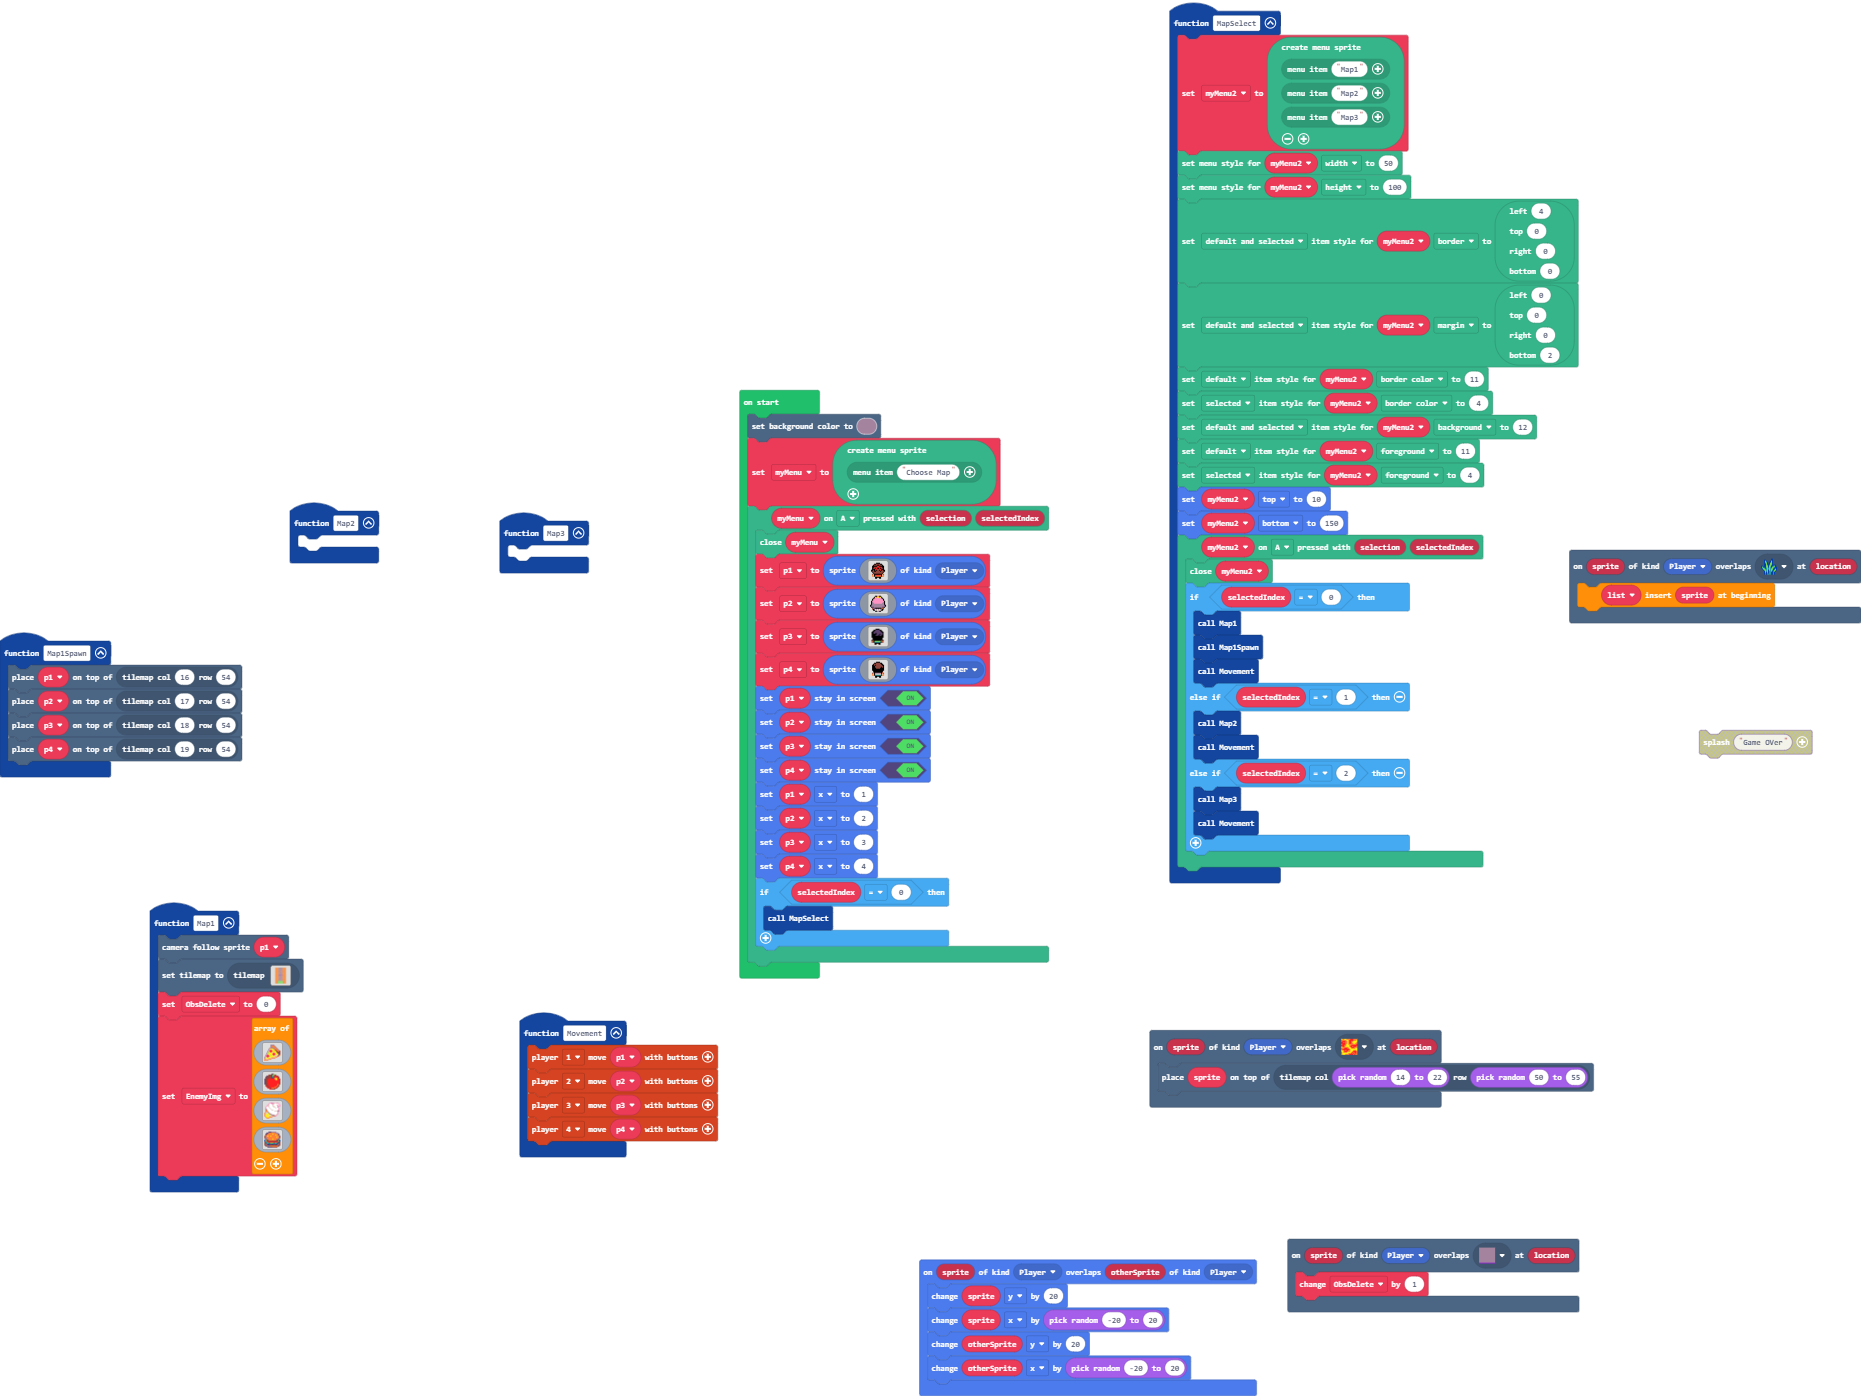
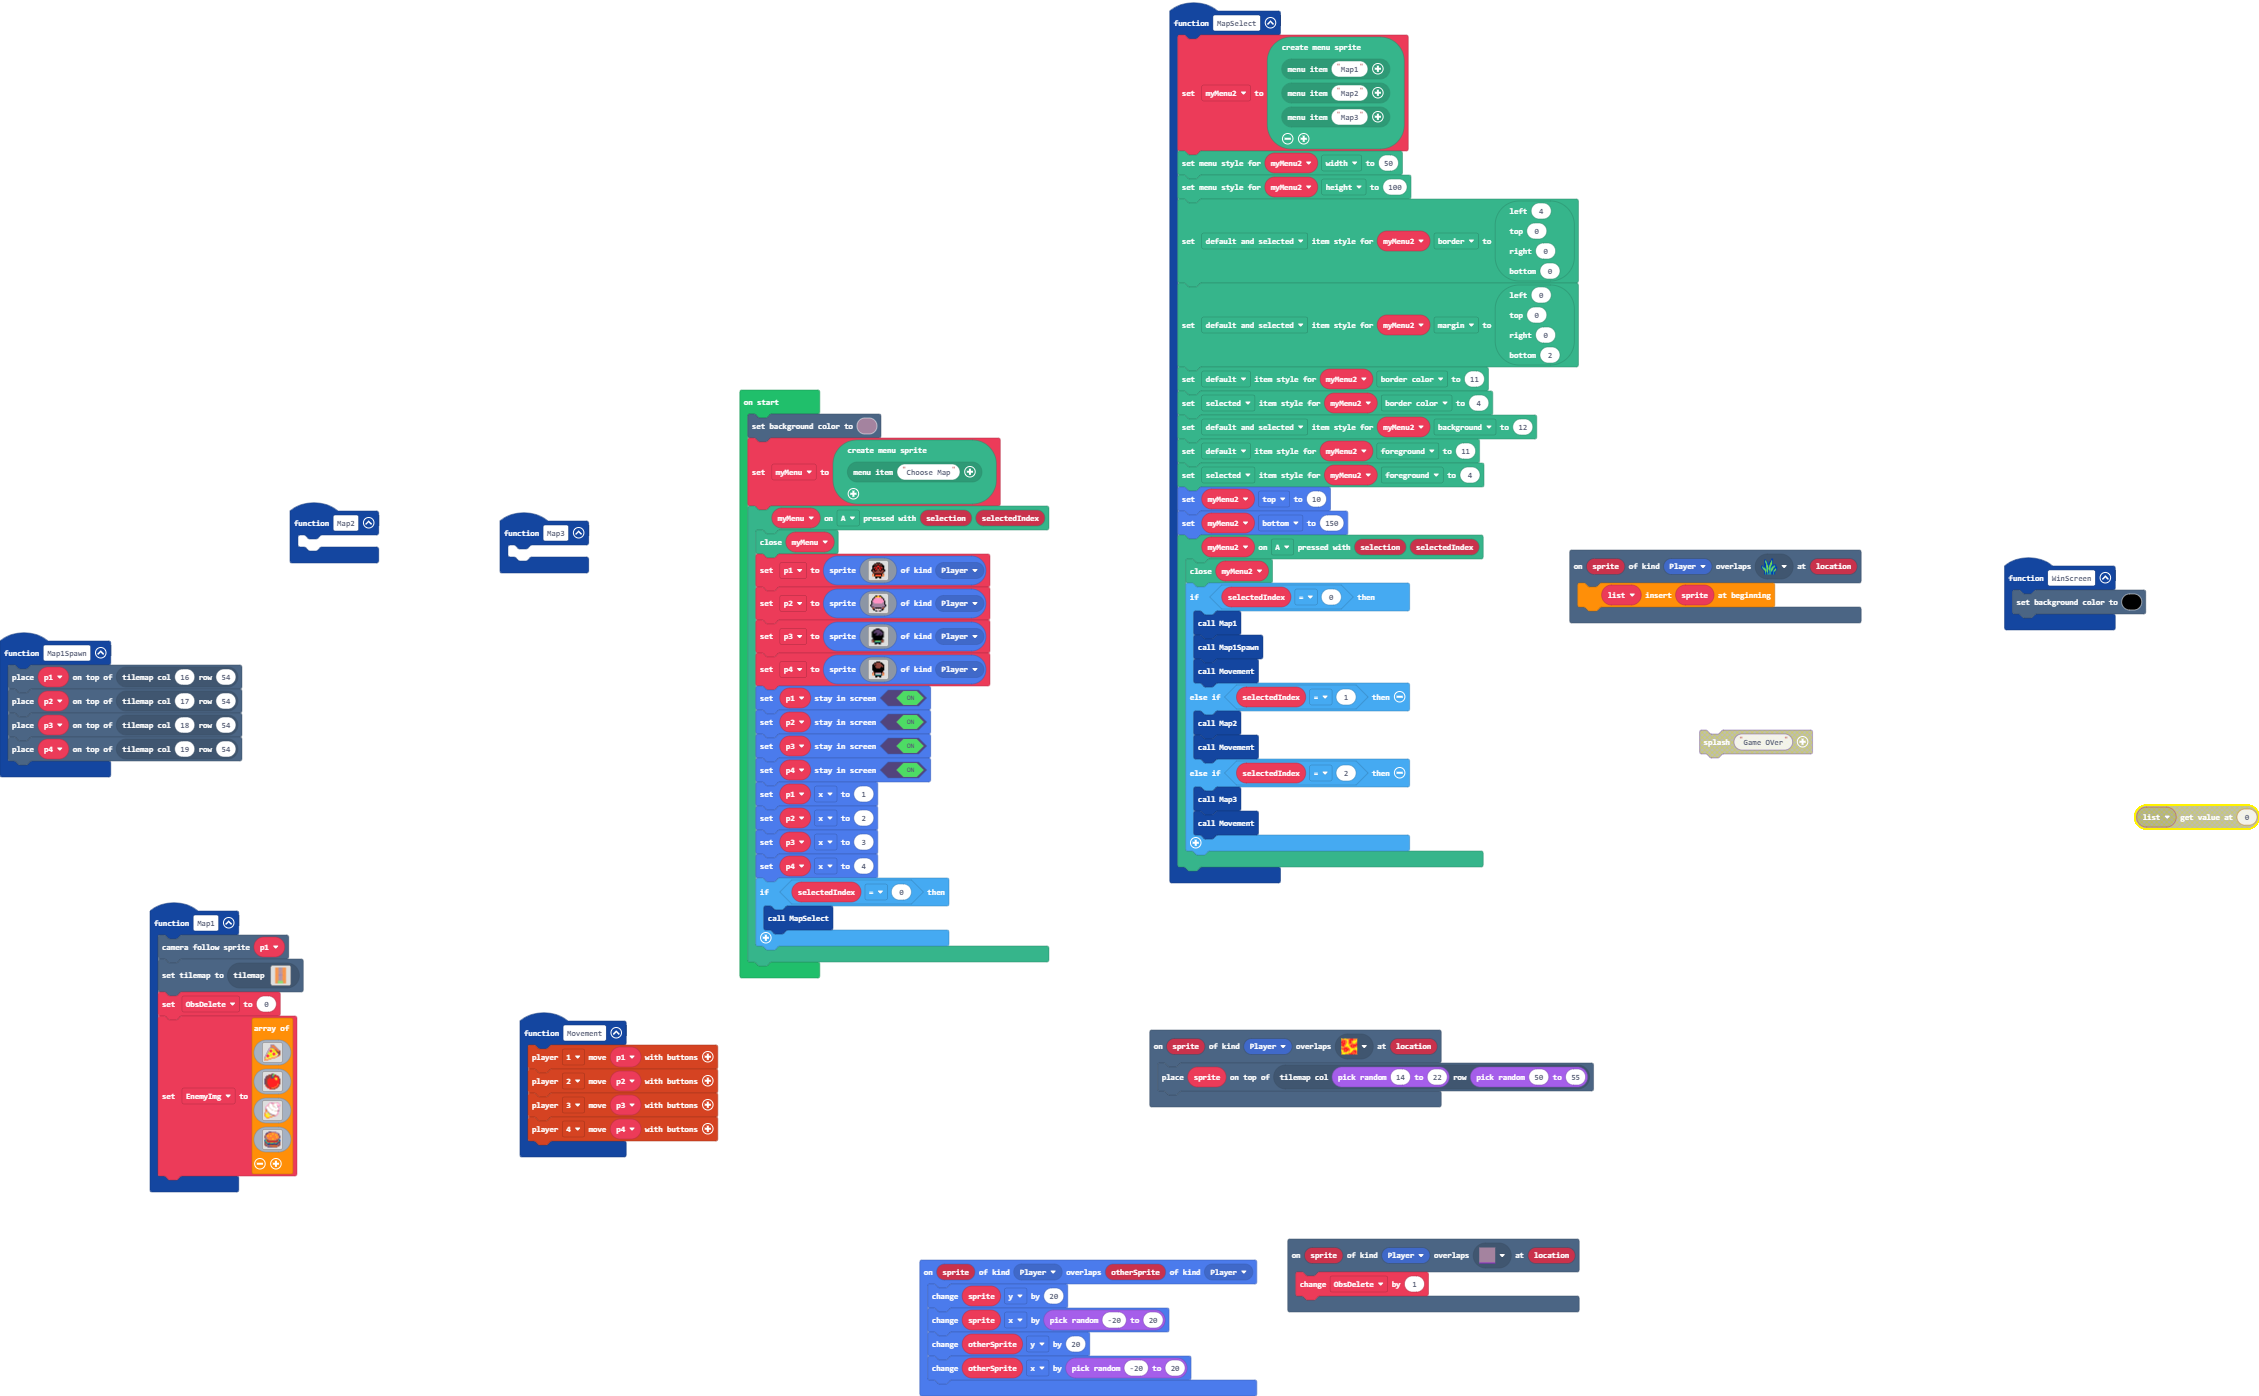
Update main.blocks, main.ts

diff --git a/main.ts b/main.ts
@@ -153,6 +153,9 @@ function Map1Spawn () {
     tiles.placeOnTile(p3, tiles.getTileLocation(18, 54))
     tiles.placeOnTile(p4, tiles.getTileLocation(19, 54))
 }
+function WinScreen () {
+    scene.setBackgroundColor(15)
+}
 let EnemyImg: Image[] = []
 let ObsDelete = 0
 let myMenu2: miniMenu.MenuSprite = null
